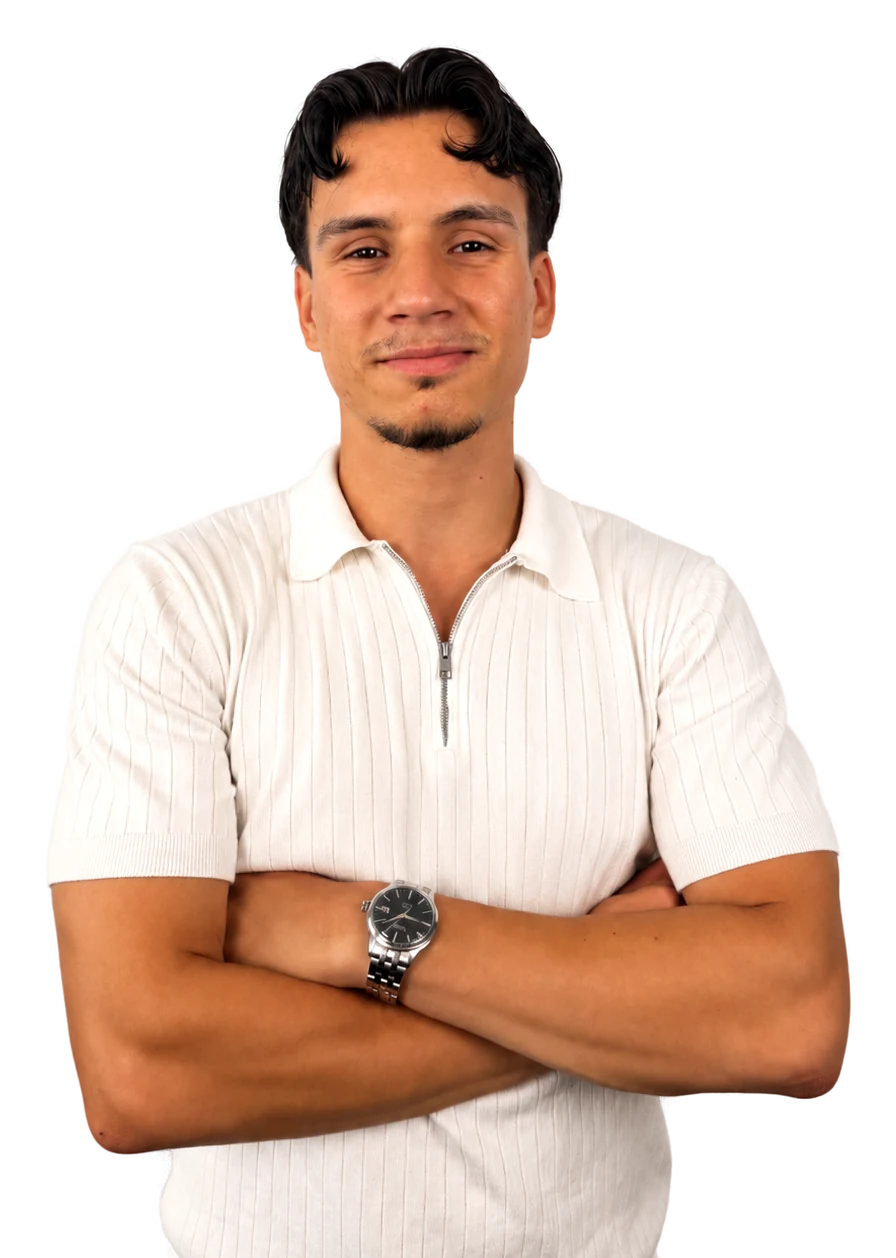
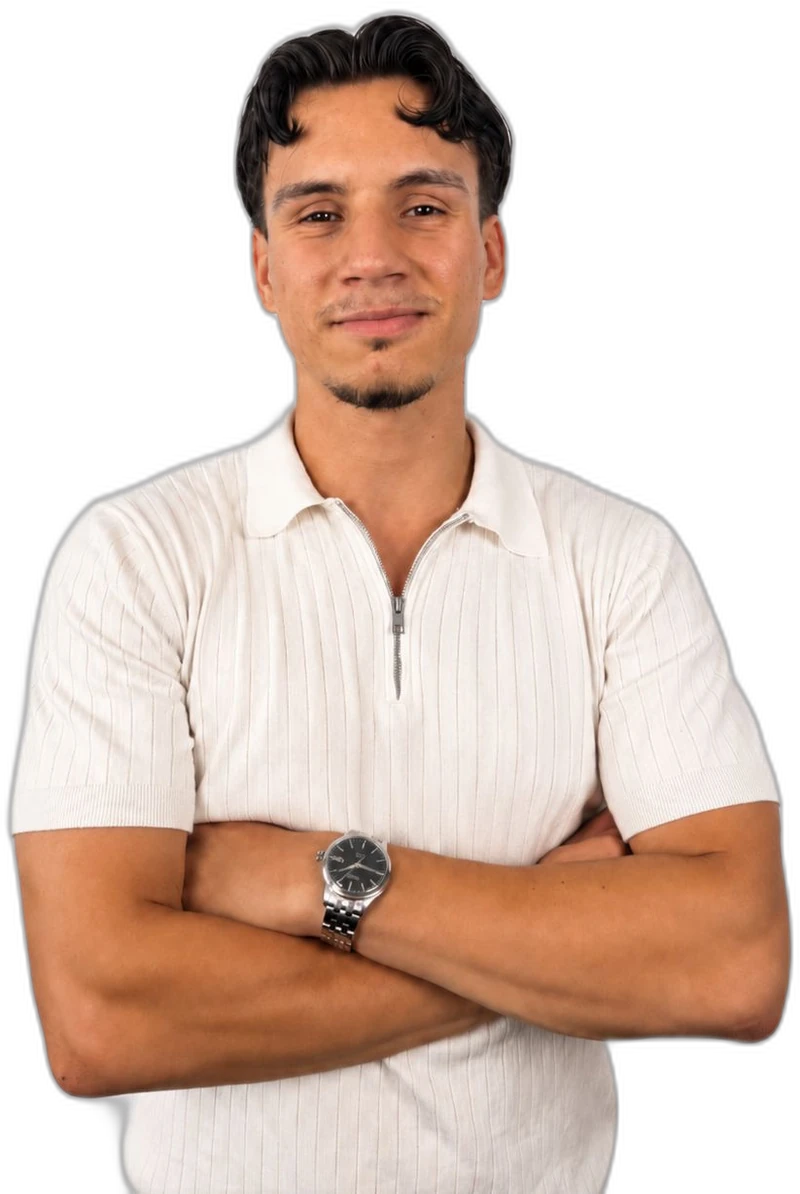
ueber-uns: neues freigestelltes Hero-Portrait (Daniel)
Neues Studioportrait per rembg freigestellt, als daniel-portrait.webp
(800px, WebP mit Transparenz) ersetzt. width/height auf neues
Seitenverhaeltnis angepasst, Cachebust ?v=2.

diff --git a/ueber-uns.html b/ueber-uns.html
@@ -656,7 +656,7 @@
         </div>
         <div class="about-hero-media">
             <div class="portrait-stage">
-                <img src="daniel-portrait.webp" alt="Daniel Holman, Gründer von Evolved Web Design aus Frauenfeld" width="400" height="562" fetchpriority="high">
+                <img src="daniel-portrait.webp?v=2" alt="Daniel Holman, Gründer von Evolved Web Design aus Frauenfeld" width="400" height="597" fetchpriority="high">
                 <div class="portrait-badge">
                     <span class="pb-dot" aria-hidden="true"></span>
                     <div><b>Daniel Holman</b><span>Gründer &amp; Webdesigner</span></div>